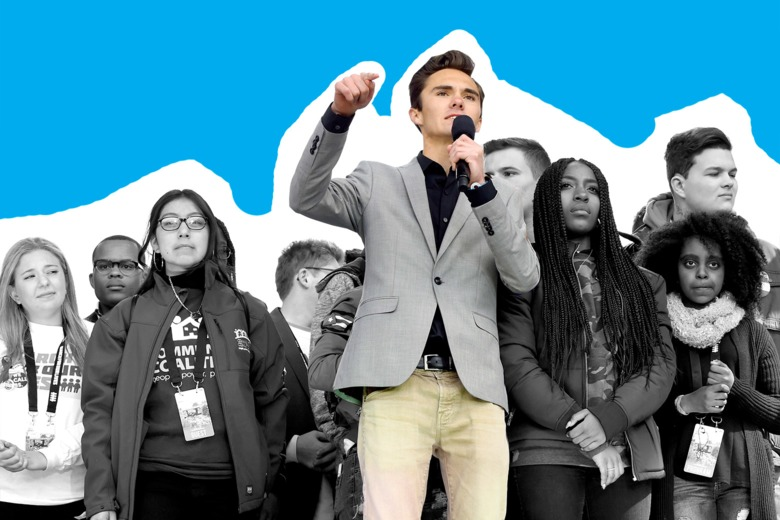
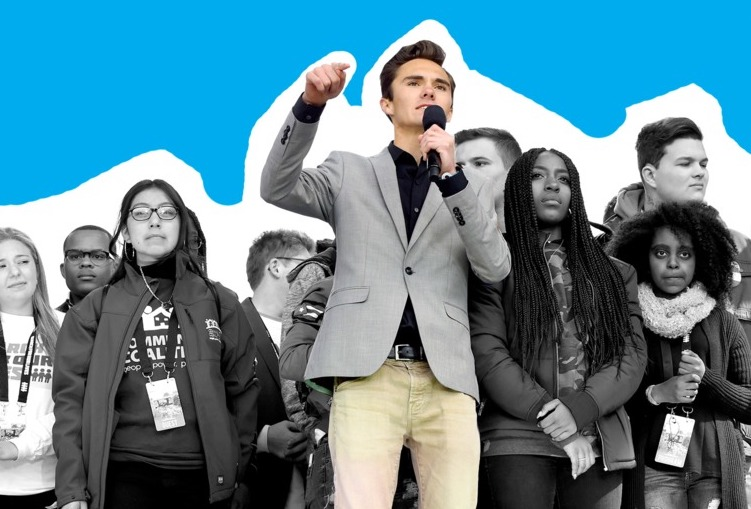
Fixed spacing on the get informed page

diff --git a/src/views/about.js b/src/views/about.js
@@ -5,11 +5,12 @@ import GridListTile from '@material-ui/core/GridListTile';
 import { withStyles } from "@material-ui/core/styles";
 import ProtestImage from "./images/protest.jpeg";
 import VoicesImage from "./images/youth-voices-matter.jpg";
+import MarchImage from "./images/march-for-our-lives.jpg";
 import ActivismImage from "./images/activism.jpeg";
 import classNames from 'classnames';
 
 
-const styles = theme => ({
+const styles = ({
   root: {
     display: 'flex',
     flexWrap: 'wrap',
@@ -17,7 +18,6 @@ const styles = theme => ({
   },
   gridList: {
     flexWrap: 'nowrap',
-    // Promote the list into his own layer on Chrome. This cost memory but helps keeping high FPS.
     transform: 'translateZ(0)',
   }
 });
@@ -28,7 +28,7 @@ class About extends Component {
     return (
       <body className="App-header">
           <div className="flex-large-container">
-            <aside className="flex-large-item" style={{width:200, paddingTop:30, marginRight: 20}}>
+            <aside className="flex-large-item" style={{width:200, marginTop:30, marginRight: 30}}>
               <h1>We're just like you.</h1>
               <br />
               <p className="mission">
@@ -36,9 +36,10 @@ class About extends Component {
                 Our focus is working with underrepresented youth and increasing their awareness of and access to different opportunities.
               </p>
             </aside>
-            <div className="flex-large-item">
+            <div className="flex-large-item" style={{width: 1000, marginTop:30, marginLeft: 20}} >
               <div className={classes.root}>
-                  <GridList className={classes.gridList} cols={2.5} cellHeight={450}>
+                  {/* Carousel of images */}
+                  <GridList className={classes.gridList} cols={1.25} cellHeight={450} spacing={25}>
                       <GridListTile>
                         <img src={VoicesImage} alt="youth activists holding up a youth voices matter sign" />
                       </GridListTile>

diff --git a/public/index.html b/public/index.html
@@ -6,7 +6,7 @@
   <link rel="shortcut icon" href="%PUBLIC_URL%/favicon.ico" />
   <meta name="viewport" content="width=device-width, initial-scale=1, shrink-to-fit=no" />
   <meta name="theme-color" content="#000000" />
-
+  
   <!--
       manifest.json provides metadata used when your web app is installed on a
       user's mobile device or desktop. See https://developers.google.com/web/fundamentals/web-app-manifest/

diff --git a/src/views/components/CivicToolbar.js b/src/views/components/CivicToolbar.js
@@ -81,7 +81,7 @@ class CivicToolbar extends Component {
                   to="./get-involved"
                 >
                   <Fab variant="extended" className={classes.cssRoot}>
-                    <h5>Get Involved</h5>
+                    <h5>get involved</h5>
                   </Fab>
                 </Link>
               </Grid>
